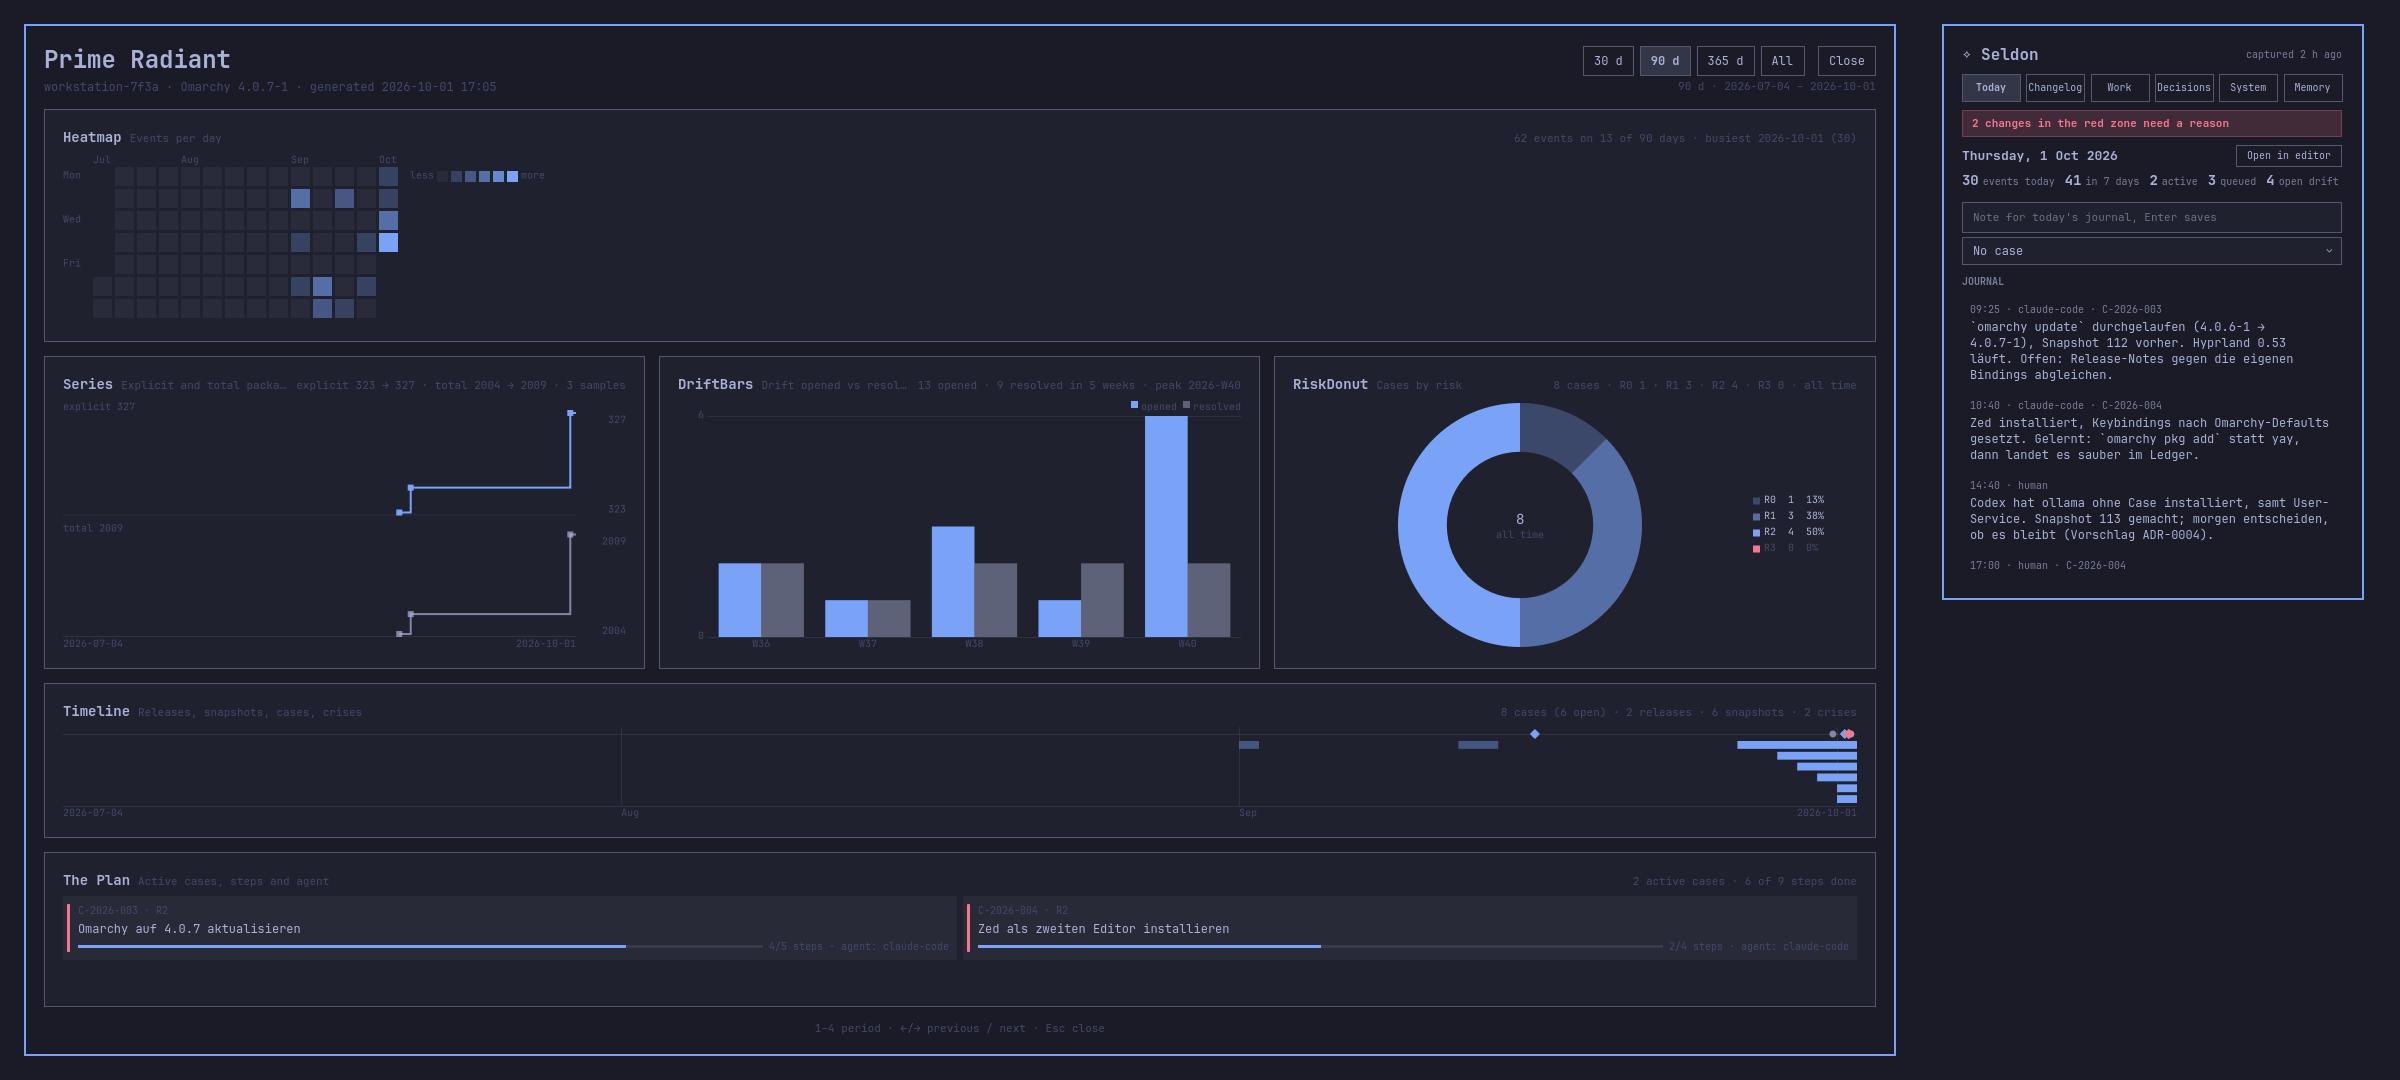
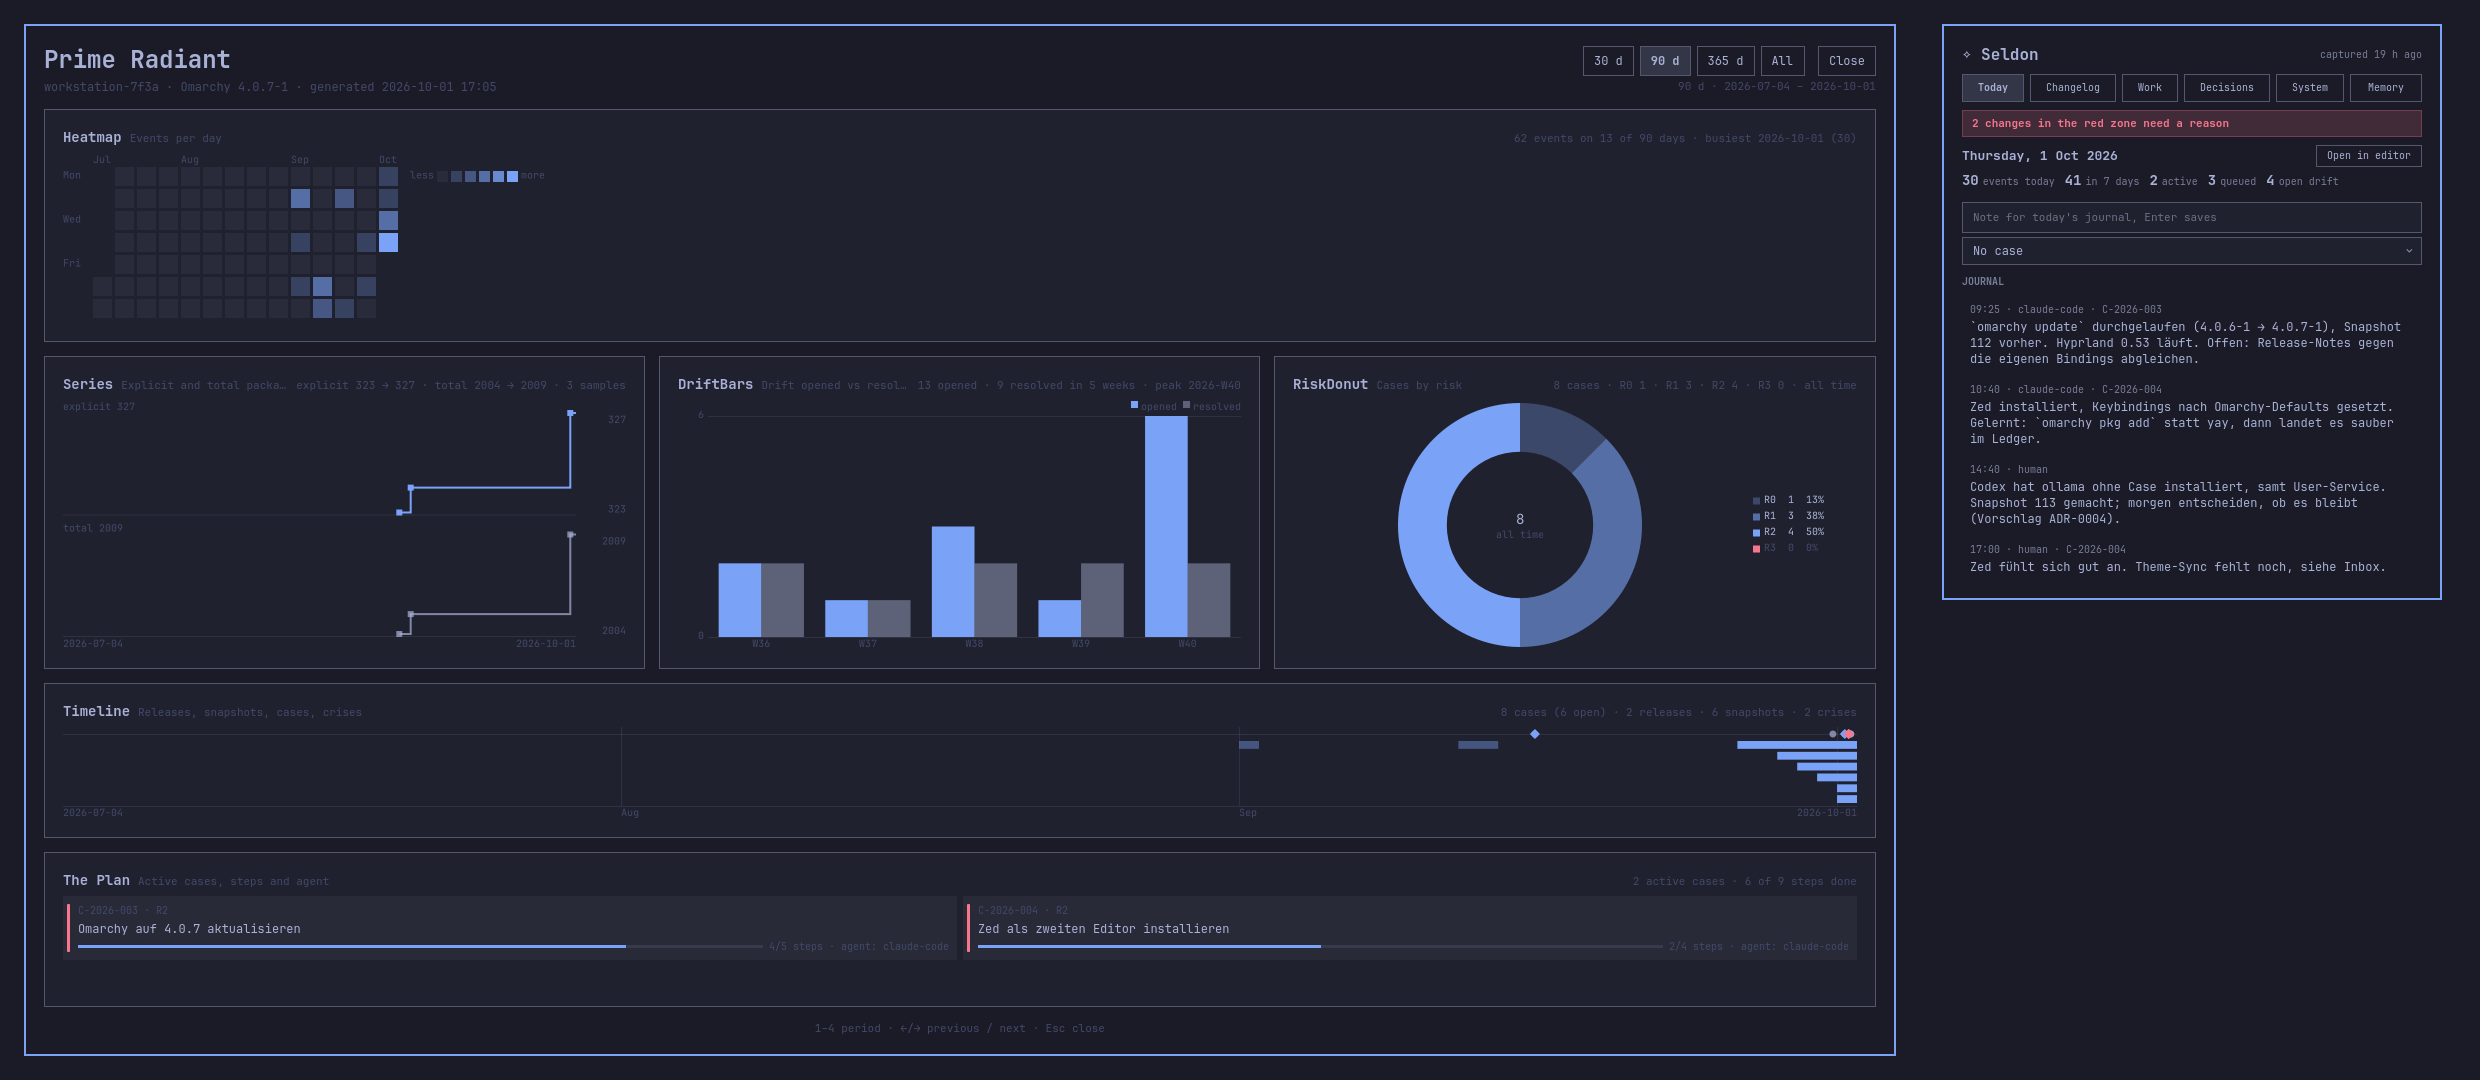
plugin: refresh preview.png and the panel render for the 460 panel (WP-039)
The panel render is a fresh PANEL_SHOTS run; preview.png is recomposed
with the same layout and theme, now 2480x1080 (the framed panel is
500 wide). TESTING's crop recipe, the README alt text and the WP file's
SPEC pointer (§5, not §3) follow.

diff --git a/README.md b/README.md
@@ -9,7 +9,7 @@ and the **Prime Radiant**, a fullscreen overlay with charts and the plan.
 You write notes, plan cases and explain unexpected changes from the panel;
 the engine does the writing.
 
-![Preview, 2400×1080: the Prime Radiant at 1920×1080 on the left, the panel's Today tab framed on the right, Tokyo Night](preview.png)
+![Preview, 2480×1080: the Prime Radiant at 1920×1080 on the left, the panel's Today tab framed on the right, Tokyo Night](preview.png)
 
 *Offscreen renders of the real QML on the sample index, Tokyo Night theme.*
 
